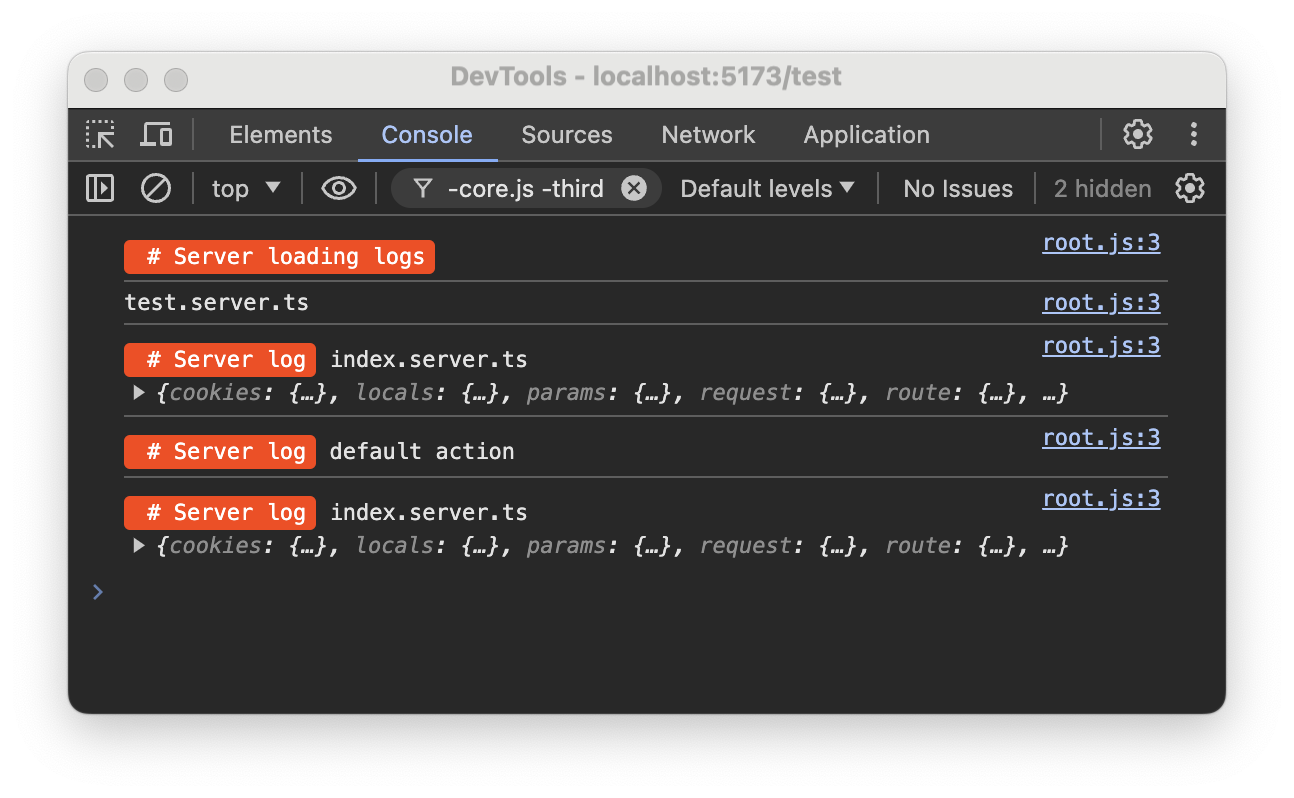
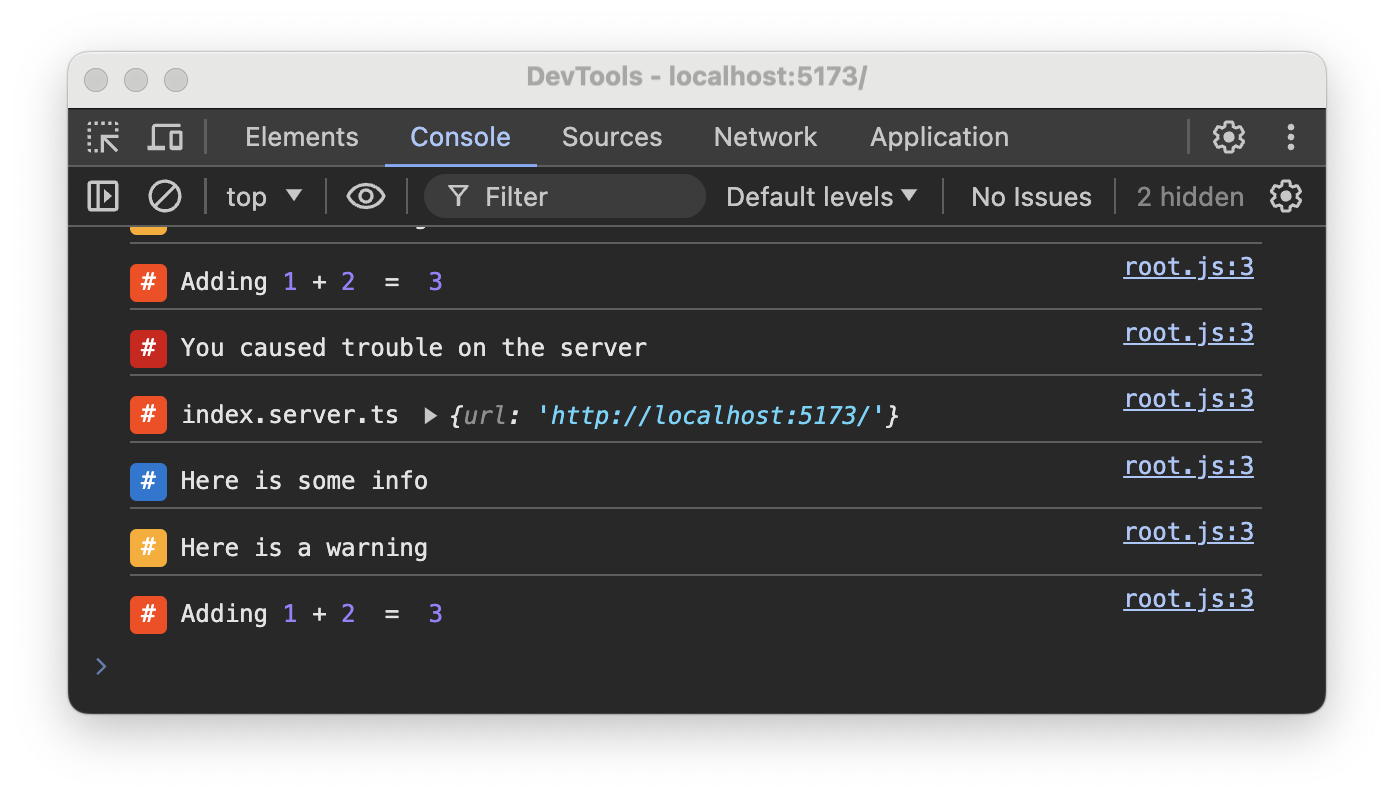
add option to suppress server logs

diff --git a/src/lib/transformer.ts b/src/lib/transformer.ts
@@ -3,9 +3,10 @@ import MagicString from 'magic-string';
 import type { WithScope } from 'ast-kit';
 import { babelParse, getLang, walkAST } from 'ast-kit';
 import { isConsoleExpression } from './core/utils.js';
-import type { Node } from '@babel/types';
+import { isIdentifier, isMemberExpression, type Node } from '@babel/types';
+import type { PluginOptions } from '$lib/console.js';
 
-export async function transform(context: Context) {
+export async function transform(context: Context, plugin_options: PluginOptions) {
 	const { code, id, options } = context;
 	const magicString = new MagicString(code);
 
@@ -33,12 +34,14 @@ export async function transform(context: Context) {
 				const originalLine = line;
 				const originalColumn = column;
 
-				// @ts-expect-error any
-				const args = node.arguments;
+				let member = 'log';
+				if (isMemberExpression(node.callee) && isIdentifier(node.callee.property)) {
+					member = node.callee.property.name;
+				}
 
+				const args = node.arguments;
 				const argsStart = args[0].start!;
 				const argsEnd = args[args.length - 1].end!;
-				const argType = args[0].type;
 
 				const consoleString = magicString.slice(expressionStart, expressionEnd);
 
@@ -49,10 +52,14 @@ export async function transform(context: Context) {
 					.replace(/"/g, '');
 
 				if (consoleString) {
-					magicString.appendRight(expressionEnd,`;
-						globalThis.spc_can_collect?.() && globalThis.spc_collect([${argsName}]);
-						globalThis.spc_ws?.send('spc:log', globalThis.spc_stringify([${argsName}]));
+					let log = `{type: ${JSON.stringify(member)}, args: globalThis.spc_stringify([${argsName}])}`;
+					magicString.appendRight(expressionEnd, `;
+						globalThis.spc_can_collect?.() && globalThis.spc_collect(${log});
+						globalThis.spc_ws?.send('spc:log', ${log});
 					`);
+					if (!plugin_options.log_on_server) {
+						magicString.remove(expressionStart, expressionEnd);
+					}
 				}
 			}
 		}
@@ -74,22 +81,33 @@ export async function injectClientCode(context: Context) {
 	const magicString = new MagicString(code);
 
 	function handleLog() {
-		const commonStyle = 'padding:2px 5px; border-radius:3px;margin-top:5px;color: #fff; background: #FF3E00;'
+		const commonStyle = 'padding:2px 5px; border-radius:3px;margin-top:5px;color: #fff; background: #FF3E00;';
+		const styles: {
+			[type: string]: string;
+		} = {
+			log: 'background: #FF3E00;',
+			info: 'background: #0078D4;',
+			warn: 'background: #FFAA00;',
+			error: 'background: #D70007;'
+		};
+
+		function spc_style(type: string) {
+			return commonStyle + (styles[type] ?? '');
+		}
+
 		if (import.meta.hot) {
 			import.meta.hot.send('spc:log_drain');
 			import.meta.hot.on('spc:log_drain', (data) => {
 				const items = JSON.parse(data);
 				if (Array.isArray(items)) {
-					if(items.length){
-						console.log('%c # Server loading logs', commonStyle);
-					}
-					for(let item of items) {
-						console.log(...item);
+					for (let { type, args } of items) {
+						const member: string = type in console ? type : 'log';
+						console.log('%c#', spc_style(type), ...JSON.parse(args));
 					}
 				}
 			});
-			import.meta.hot.on('spc:log', (data) => {
-				console.log('%c # Server log', commonStyle, ...JSON.parse(data));
+			import.meta.hot.on('spc:log', ({ type, args }) => {
+				console.log('%c#', spc_style(type), ...JSON.parse(args));
 			});
 		}
 	}

diff --git a/src/lib/console.ts b/src/lib/console.ts
@@ -16,7 +16,23 @@ declare global {
 	var spc_can_collect: () => boolean;
 }
 
-export function ConsolePlugin(): Plugin {
+export type PluginOptions = {
+	/**
+	 * Whether to print logs in the server console normally or to suppress them
+	 *
+	 * Default: true
+	 */
+	log_on_server?: boolean;
+}
+
+const defaultOptions: PluginOptions = {
+	log_on_server: true
+};
+
+export function ConsolePlugin(options?: PluginOptions): Plugin {
+
+	const plugin_options = { ...defaultOptions, ...(options ?? {}) };
+
 	return {
 		name: PLUGIN_NAME,
 		enforce: 'pre',
@@ -49,13 +65,13 @@ export function ConsolePlugin(): Plugin {
 		},
 
 		async transform(code, id, options) {
-			if(/.svelte-kit\/generated\/root.js/.test(id)){
+			if (/.svelte-kit\/generated\/root.js/.test(id)) {
 				const context: Context = {
 					code,
 					id,
 					options
 				};
-				 return await injectClientCode(context)
+				return await injectClientCode(context);
 			}
 			if (!code?.includes('console')
 				|| /node_modules/.test(id)
@@ -70,7 +86,7 @@ export function ConsolePlugin(): Plugin {
 					options
 				};
 
-				return await transform(context);
+				return await transform(context, plugin_options);
 			} catch (error) {
 				console.error(`[${PLUGIN_NAME}]`, `Transform ${relative(cwd(), id)} error:`, error);
 				return code;

diff --git a/src/routes/+page.server.ts b/src/routes/+page.server.ts
@@ -1,17 +1,24 @@
-import { add } from "$lib/testfiles/testmodule";
+import { add } from '$lib/testfiles/testmodule';
 import type { Actions, PageServerLoad } from './$types';
 
 export const actions: Actions = {
-	default() {
+	click() {
 		console.log('default action');
 
-		return {}
-	}
-}
+		return {};
+	},
+	trouble() {
+		console.error('You caused trouble on the server');
 
-export const load: PageServerLoad = (event) => {
-	console.log('index.server.ts', event)
+		return {};
+	}
+};
+
+export const load: PageServerLoad = ({ url }) => {
+	console.log('index.server.ts', { url: url.href });
+	console.info('Here is some info');
+	console.warn('Here is a warning');
 	return {
-		sum: add(1, 2),
+		sum: add(1, 2)
 	};
 };

diff --git a/vite.config.ts b/vite.config.ts
@@ -2,8 +2,12 @@ import { sveltekit } from '@sveltejs/kit/vite';
 import { defineConfig } from 'vitest/config';
 import { ConsolePlugin } from './src/lib/index.js';
 
+console.log('start');
+
 export default defineConfig({
-	plugins: [sveltekit(), ConsolePlugin()],
+	plugins: [sveltekit(), ConsolePlugin({
+		log_on_server: false
+	})],
 	test: {
 		include: ['src/**/*.{test,spec}.{js,ts}']
 	}

diff --git a/src/lib/core/utils.ts b/src/lib/core/utils.ts
@@ -1,6 +1,6 @@
-import type { Node } from '@babel/types';
+import type { CallExpression, Node } from '@babel/types';
 
-export function isConsoleExpression(node: Node) {
+export function isConsoleExpression(node: Node): node is CallExpression {
 	return node.type === 'CallExpression'
 		&& node.callee.type === 'MemberExpression'
 		&& node.callee.object.type === 'Identifier'

diff --git a/src/routes/+page.svelte b/src/routes/+page.svelte
@@ -2,6 +2,12 @@
 	import { enhance } from '$app/forms';
 </script>
 
-<form method="post" use:enhance>
+<form method="post" action="?/click" use:enhance>
 	<button type="submit">Click</button>
+</form>
+
+<br>
+
+<form method="post" action="?/trouble" use:enhance>
+	<button type="submit">Cause trouble</button>
 </form>

diff --git a/src/lib/testfiles/testmodule.ts b/src/lib/testfiles/testmodule.ts
@@ -1,4 +1,4 @@
-export function add(a:number, b:number) {
-	console.log('Adding', a, b);
+export function add(a: number, b: number) {
+	console.log('Adding', a, '+', b, ' = ', a + b);
 	return a + b;
 }

diff --git a/README.md b/README.md
@@ -34,6 +34,17 @@ export default defineConfig({
 });
 ```
 
+## Options
+```ts
+export type PluginOptions = {
+	/**
+	 * Whether to print logs in the server console normally or to suppress them
+	 *
+	 * Default: true
+	 */
+	log_on_server?: boolean;
+}
+```
 ## Usage
 Use console.log normally on your server code. You don't need to change anything.
 
@@ -42,4 +53,4 @@ This plugin only works on serve mode. It does not affect your production build.
 
 ## Todos
 - [ ] provide file:line-number and make it clickable if possible  
-- [ ] provide option to suppress logs on the server console (to avoid flooding)
+- [x] provide option to suppress logs on the server console (to avoid flooding)
